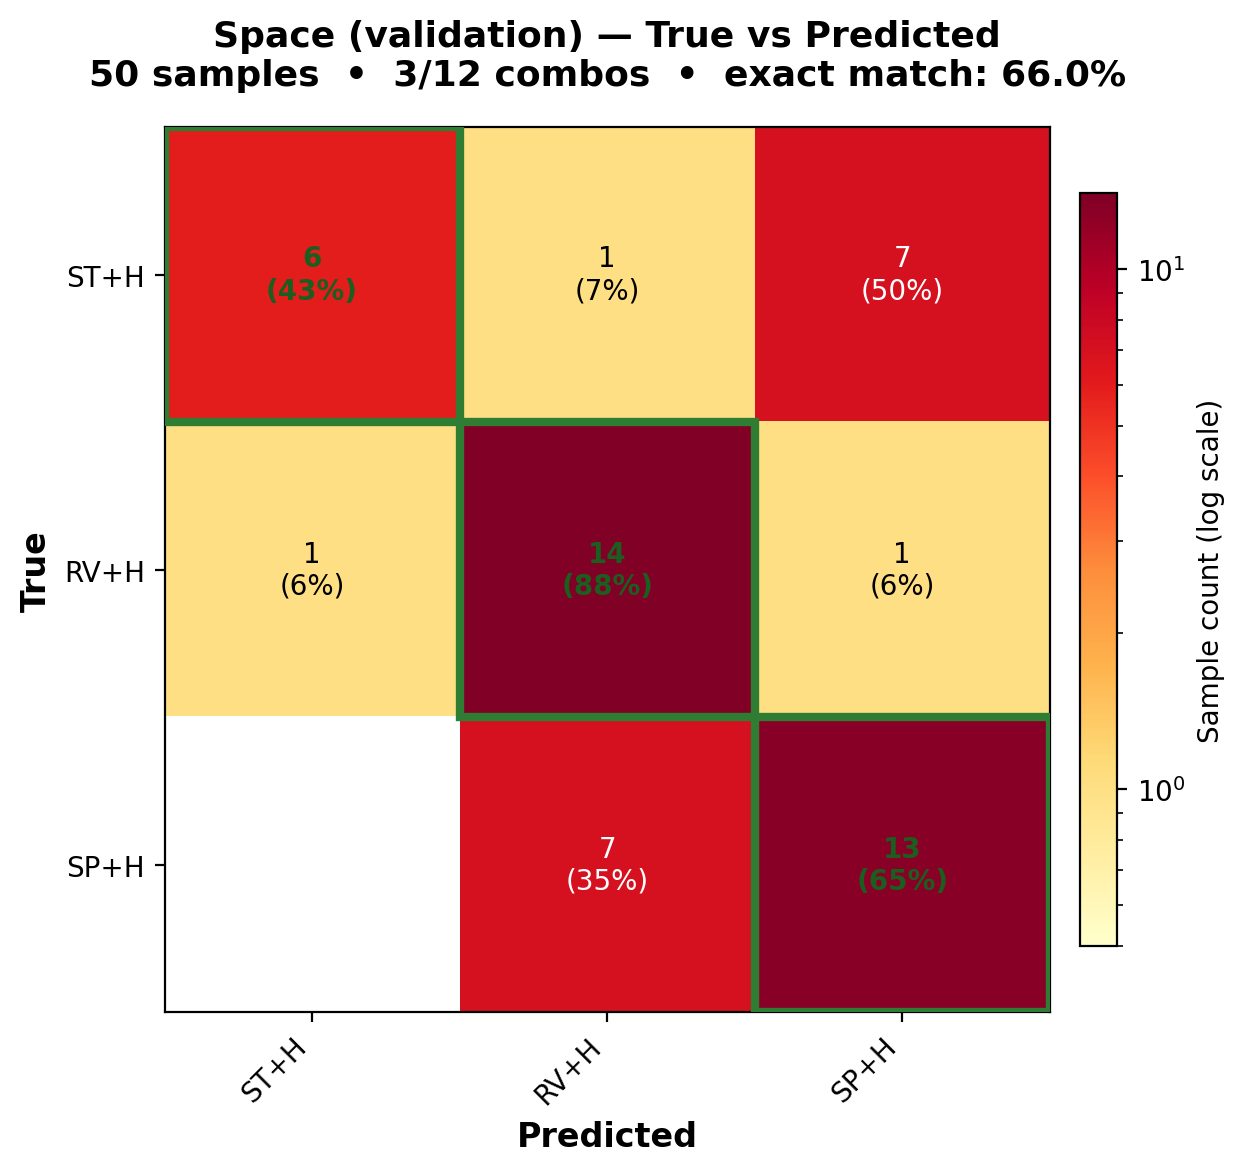
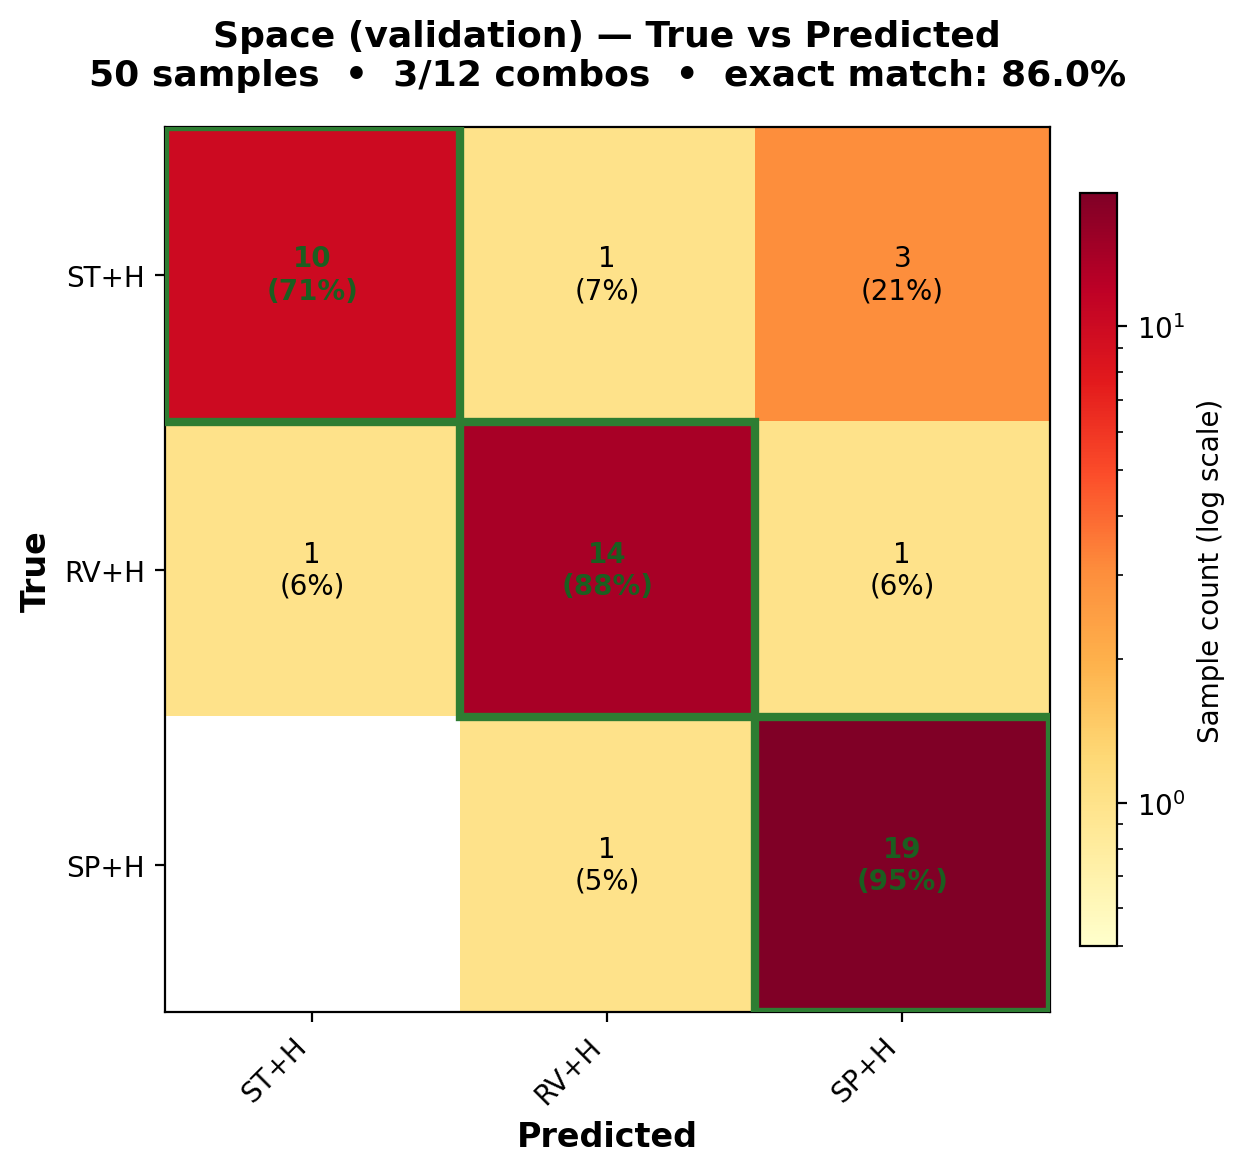
tried fable model for spine

diff --git a/Space/models/multilabel_space.py b/Space/models/multilabel_space.py
@@ -21,7 +21,18 @@ MultiLabelGestureModelBase = _fs_gb.MultiLabelGestureModelBase
 
 
 class _MultiLabelSpace(nn.Module):
-    """Gesture-level multi-label model.  Input: (B, 73, T) -> Output: (B, 7)."""
+    """Gesture-level multi-label model.  Input: (B, 73, T) -> Output: (B, 7).
+
+    Two independent attention+classifier heads, one per pair group:
+      Head A — movement (ST, T, RV, SP — indices 0-3)
+      Head B — energy   (H, M, L      — indices 4-6)
+
+    Attention pooling (instead of mean pooling) is critical for the movement
+    head: a spring/jump (SP) is a brief event — maybe 10-20 frames out of
+    256 — and mean pooling washes it out, making SP look like ST
+    (stationary).  Attention lets the head focus on the few frames where the
+    jump actually happens.
+    """
     def __init__(self, in_features=73, num_codes=7, hidden=256, num_layers=2,
                  dropout=0.5):
         super().__init__()
@@ -29,14 +40,50 @@ class _MultiLabelSpace(nn.Module):
             in_features, hidden, num_layers,
             bidirectional=True, batch_first=True, dropout=dropout,
         )
-        self.classifier = nn.Sequential(
-            nn.Linear(hidden * 2, 128), nn.ReLU(inplace=True),
-            nn.Dropout(dropout), nn.Linear(128, num_codes),
+        lstm_out = hidden * 2  # 512
+
+        # ── Head A: attention + classifier for movement (indices 0-3) ──
+        self.attn_a = nn.Sequential(
+            nn.Linear(lstm_out, 64),
+            nn.Tanh(),
+            nn.Linear(64, 1),
+        )
+        self.head_a = nn.Sequential(
+            nn.Linear(lstm_out, 128),
+            nn.LayerNorm(128),
+            nn.ReLU(inplace=True),
+            nn.Dropout(dropout),
+            nn.Linear(128, 4),
+        )
+
+        # ── Head B: attention + classifier for energy (indices 4-6) ────
+        self.attn_b = nn.Sequential(
+            nn.Linear(lstm_out, 64),
+            nn.Tanh(),
+            nn.Linear(64, 1),
+        )
+        self.head_b = nn.Sequential(
+            nn.Linear(lstm_out, 128),
+            nn.LayerNorm(128),
+            nn.ReLU(inplace=True),
+            nn.Dropout(dropout),
+            nn.Linear(128, 3),
         )
 
     def forward(self, x):
-        out, _ = self.lstm(x.permute(0, 2, 1))
-        return self.classifier(out.mean(dim=1))
+        out, _ = self.lstm(x.permute(0, 2, 1))   # (B, T, 512)
+
+        # ── Head A: movement ──────────────────────────────────────────
+        w_a = torch.softmax(self.attn_a(out), dim=1)   # (B, T, 1)
+        pooled_a = (out * w_a).sum(dim=1)               # (B, 512)
+        logits_a = self.head_a(pooled_a)                # (B, 4)
+
+        # ── Head B: energy ────────────────────────────────────────────
+        w_b = torch.softmax(self.attn_b(out), dim=1)   # (B, T, 1)
+        pooled_b = (out * w_b).sum(dim=1)               # (B, 512)
+        logits_b = self.head_b(pooled_b)                # (B, 3)
+
+        return torch.cat([logits_a, logits_b], dim=1)   # (B, 7)
 
 
 class MultiLabelSpaceModel(MultiLabelGestureModelBase):
@@ -55,5 +102,11 @@ class MultiLabelSpaceModel(MultiLabelGestureModelBase):
                  name="multilabel_space_lstm"):
         model = _MultiLabelSpace(in_features=73, num_codes=num_codes, dropout=dropout)
         pair_groups = [(0, 1, 2, 3), (4, 5, 6)]
+        # Movement class weights — ST is the minority (65 train samples vs
+        # SP 95, RV 77) and was frequently misclassified as SP.  Up-weight
+        # ST so the model builds a proper boundary for it.
+        # Group positions: ST=0, T=1, RV=2, SP=3.  Energy group unweighted.
+        pair_weights = [torch.tensor([1.8, 1.0, 1.2, 1.0]), None]
         super().__init__(model, num_codes, target_frames, lr, weight_decay,
-                        device, name, pair_groups=pair_groups)
+                        device, name, pair_groups=pair_groups,
+                        pair_weights=pair_weights)

diff --git a/README.md b/README.md
@@ -10,9 +10,18 @@ Classifies body movement into **BAT (Body Articulation Type)** codes across four
 
 - **COG-relative features.** Plumbline distances/angles are invariant to body height and translation — no separate normalization needed.
 - **Pair-group constraints.** Structurally enforced mutual exclusivity via per-group softmax + CrossEntropyLoss. No invalid combos possible.
-- **D-weight penalty.** FloorSupport weights D (dual-foot) 2.0× in the S↔D loss with a two-head attention architecture — one attention+classifier head for FT/HN, a separate one for S/D. This lets the S/D head focus on the frames where dual-foot contact is visible. FT+D improved from 25% → 69% (val) and 29% → 82% (test).
+- **Multi-head decoding.** Each mutually exclusive code group gets its own attention + classifier head on a shared backbone. The heads decide independently, so the frames that matter for one decision (e.g. the brief moment of dual-foot contact) don't have to compete with the frames that matter for another (foot vs hand). This also allows zero-shot compositional predictions — e.g. HN+S (single hand) is a reachable output even with no HN+S training data.
+- **Attention pooling everywhere.** Attention beats mean pooling in every region — brief events (jumps, dual-foot contact) get washed out by averaging over 256 frames. Deep classifiers overfit on small datasets (<300 samples); shallow heads with LayerNorm work best.
 - **Reproducible.** All `main.py` scripts accept `--seed` (default 42), setting `random`/`numpy`/`torch` seeds.
-- **Architecture tested per region.** BiLSTM+attention (FloorSupport), BiLSTM+mean pool+class weights (Spine, Space), CNN+contrastive heads (LimbExpression). Deeper classifiers and attention pooling overfit on small datasets (<300 samples).
+
+### Model Structures
+
+| Region | Backbone | Pooling | Heads | Loss / Weights |
+|:-------|:---------|:--------|:------|:---------------|
+| **FloorSupport** | BiLSTM (73→256×2, 2 layers) | Per-head attention | **2 heads**: FT↔HN, S↔D (each: attn → Linear→LayerNorm→ReLU→Dropout→2) | CE per group; D weighted 2.0× (FT+D: 25%→69% val, 29%→82% test) |
+| **Spine** | BiLSTM (73→256×2, 2 layers) | Single attention | **1 head**: 6-way softmax E/F/HG/LF/SR/U (single-label — one class per sample, nothing to split) | CE; class weights LF=3.0×, F=1.2× |
+| **LimbExpression** | 1D CNN (73→128→256→512) | AdaptiveAvgPool | **4 heads**: LB↔UB, SL↔DL, AS↔SY, A↔G (each: Linear→ReLU→Dropout→1 sigmoid) | BCE per head |
+| **Space** | BiLSTM (73→256×2, 2 layers) | Per-head attention | **2 heads**: movement ST/T/RV/SP (4-way), energy H/M/L (3-way) | CE per group; ST weighted 1.8× (ST+H: 43%→71% val, 20%→73% test) |
 
 ## BAT Origins
 
@@ -61,12 +70,12 @@ Movement `[ST, T, RV, SP]` × Energy `[H, M, L]` = 12 combos.
 
 | Combo | Train | Val | Test | Val Acc | Test Acc |
 |-------|------:|----:|-----:|--------:|---------:|
-| RV+H | 77 | 16 | 18 | **88%** | **83%** |
-| SP+H | 95 | 20 | 22 | **65%** | **50%** |
-| ST+H | 65 | 14 | 15 | **43%** | **20%** |
+| RV+H | 77 | 16 | 18 | **88%** | **94%** |
+| SP+H | 95 | 20 | 22 | **95%** | **95%** |
+| ST+H | 65 | 14 | 15 | **71%** | **73%** |
 | All M, L, T combos (9) | 0 | 0 | 0 | — | — |
 
-> 9/12 combos missing. No Medium/Low energy, no Transition movement.
+> Two-head attention (movement/energy) + ST-weight 1.8×. Attention pooling fixed the ST↔SP confusion (jumps are brief events that mean pooling washed out): ST+H 43% → 71% (val), 20% → 73% (test); SP+H 65% → 95% (val), 50% → 95% (test). 9/12 combos missing — no Medium/Low energy, no Transition movement.
 
 ---
 
